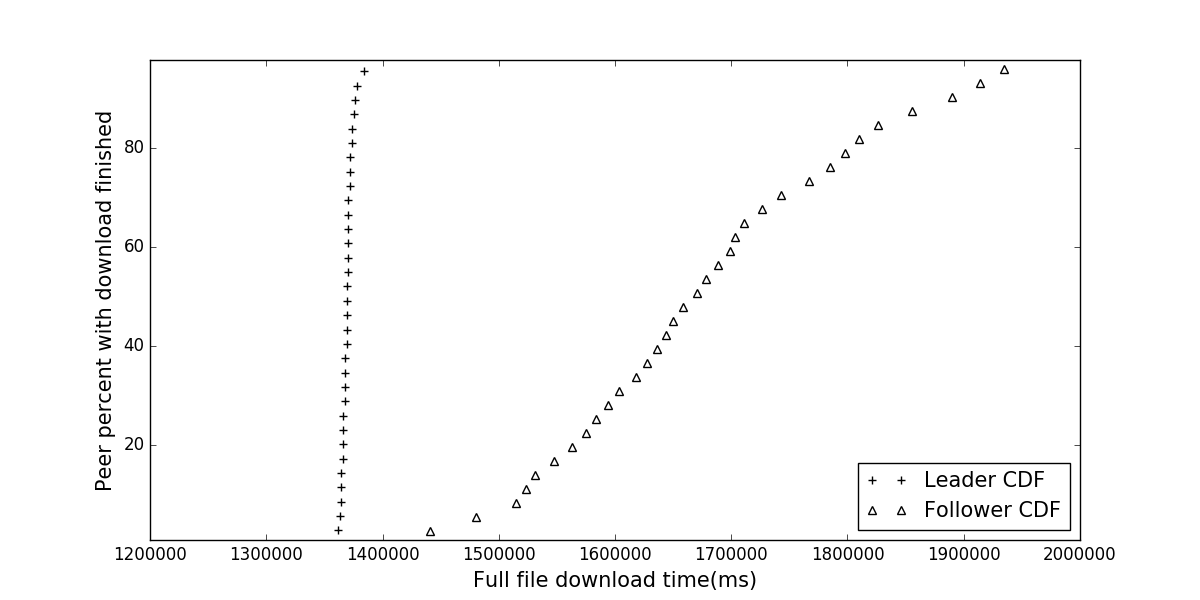
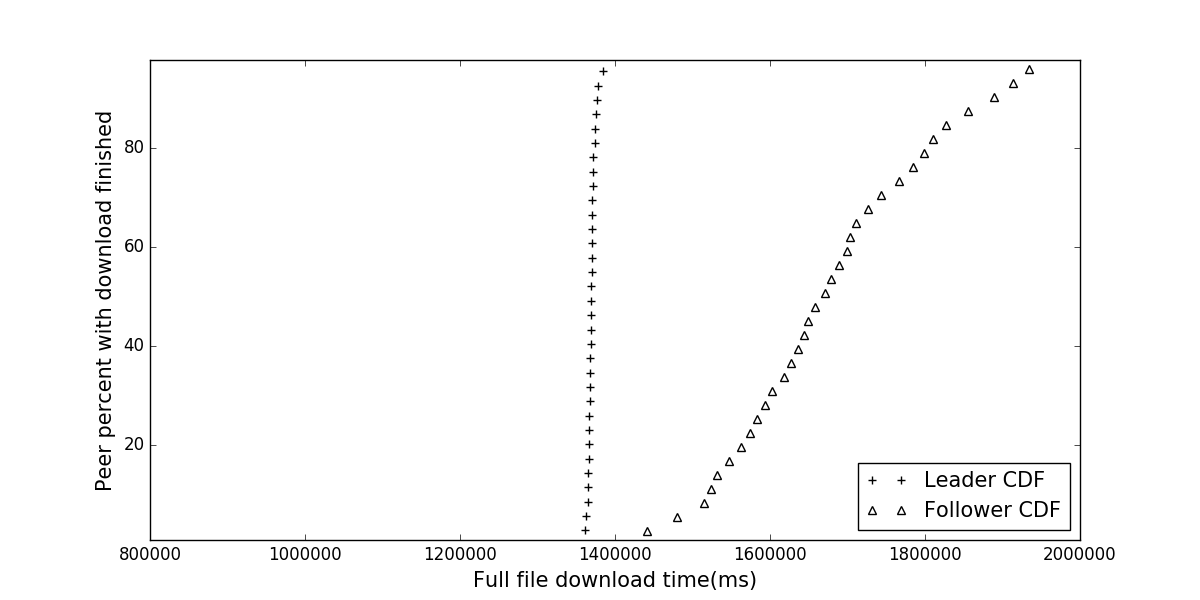
More tests for heterogenous environment.

diff --git a/misc/leaderFollower.py b/misc/leaderFollower.py
@@ -4,6 +4,8 @@ follower = [0,1393131,1393131,1417131,1420131,1420131,1429131,1433631,1435131,14
 leader2 = [0,1240667,1240667,1242167,1242167,1242167,1242167,1242167,1242167,1242167,1242667,1242667,1242667,1242667,1242667,1242667,1242667,1243667,1243667,1243667,1243667,1243667,1243667,1243667,1243667,1243667,1243667,1244167,1245167,1245167,1245167,1245167,1245167,1245167,1245167,1245167,1245167,1245167,1245167,1245167,1245167,1245167,1245167,1245167,1245167,1245167,1245167,1245167,1245167,1245167,1245167,1245167,1245167,1245167,1245167,1245167,1245167,1245167,1245167,1245167,1245167,1245167,1245167,1245167,1245167,1245167,1245167,1245167,1245167,1245167,1245167,1245167,1245167,1245167,1245167,1245167,1245167,1245167,1245167,1245167,1245167,1245167,1245167,1245167,1245167,1245167,1245167,1245167,1246667,1246667,1246667,1246667,1246667,1246667,1246667,1246667,1246667,1246667,1246667,1246667,1246667,1246667,1246667,1246667,1246667,1246667,1246667,1246667,1246667,1246667,1246667,1246667,1246667,1246667,1246667,1246667,1246667,1246667,1246667,1246667,1246667,1246667,1246667,1248167,1248167,1248167,1248167,1248167,1248167,1248167,1248167,1248167,1248167,1248167,1248167,1248167,1248167,1248167,1248167,1248167,1248167,1248167,1248167,1248167,1248167,1248167,1248167,1248167,1248167,1248167,1248167,1248167,1248167,1248167,1248167,1248167,1248167,1248167,1248167,1248167,1248167,1248167,1248167,1248167,1248167,1248167,1248167,1248167,1248167,1248167,1248167,1248167,1248167,1248167,1248167,1248167,1248167,1248167,1248167,1248167,1248167,1248167,1248167,1248167,1248167,1248167,1248167,1248167,1248167,1248167,1248167,1248167,1248167,1249667,1249667,1249667,1249667,1249667,1249667,1249667,1249667,1249667,1249667,1249667,1249667,1250167,1250167,1250167,1250167,1250167,1250167,1250167,1250167,1250167,1251167,1251167,1251167,1251167,1251167,1251167,1251167,1251167,1251167,1251167,1251167,1251167,1251167,1251667,1251667,1252667,1252667,1252667,1252667,1252798,1254167,1255667,1258667,1260167,1260167]
 follower2 = [0,1242167,1243667,1244167,1245167,1245167,1245167,1245167,1245167,1245167,1245167,1245167,1245167,1245167,1245167,1245167,1246667,1246667,1246667,1246667,1246667,1246667,1246667,1246667,1246667,1246667,1246667,1246667,1246667,1246667,1246667,1246667,1246667,1248167,1248167,1248167,1248167,1248167,1248167,1248167,1248167,1248167,1248167,1248167,1248167,1248167,1248167,1248167,1248167,1248167,1248167,1248167,1248167,1248167,1248167,1248167,1248167,1248167,1248167,1248167,1248167,1248167,1248167,1248167,1248167,1248167,1248167,1248167,1248167,1248167,1248167,1248167,1248167,1248167,1248167,1248167,1248167,1248167,1248167,1248167,1248167,1248167,1248167,1248167,1248167,1248167,1248167,1248167,1248167,1248167,1248167,1248167,1248167,1248167,1248167,1248167,1248167,1248167,1248167,1248167,1248167,1248167,1248167,1248167,1248167,1248167,1248167,1248167,1248167,1248167,1248167,1248167,1249667,1249667,1249667,1249667,1249667,1249667,1249667,1249667,1249667,1249667,1249667,1249667,1249667,1249667,1249667,1249667,1249667,1249667,1249667,1249667,1249667,1249667,1249667,1249667,1249667,1249667,1249667,1249667,1249667,1249667,1249667,1249667,1249667,1249667,1249667,1249667,1249667,1249667,1249667,1249667,1249667,1249667,1249667,1249667,1249667,1249667,1249667,1249667,1249667,1249667,1249667,1249667,1249667,1249667,1249667,1249667,1249667,1249667,1249667,1249667,1249667,1249667,1249667,1249667,1249878,1250167,1250167,1250167,1250167,1250167,1250167,1250167,1250167,1250167,1251167,1251167,1251167,1251167,1251167,1251167,1251167,1251167,1251167,1251167,1251167,1251167,1251167,1251167,1251167,1251167,1251167,1251167,1251167,1251167,1251167,1251167,1251167,1251167,1251167,1251167,1251167,1251167,1251167,1251167,1251167,1251167,1251167,1251167,1251167,1251167,1251167,1251167,1251167,1251167,1251167,1251167,1251167,1251167,1251167,1251167,1251167,1251167,1251167,1251167,1251167,1251167,1251167,1251167,1251167,1251167,1251167,1251167,1251167,1251167,1251167,1251167,1251167,1251167,1251167,1251167,1251167,1251167,1251167,1251167,1251167,1251167,1251167,1251167,1251167,1251167,1251167,1251167,1251167,1251167,1251167,1251167,1251167,1251167,1251167,1251167,1251167,1251167,1251167,1251167,1251167,1251167,1251167,1251167,1251167,1251167,1251167,1251167,1251167,1251167,1251167,1251167,1251167,1251167,1251167,1251167,1251167,1251167,1251167,1251167,1251167,1251167,1251167,1251167,1251167,1251167,1251167,1251167,1251167,1251167,1251167,1251167,1251167,1251167,1251167,1251167,1251167,1251167,1251167,1251167,1251167,1251167,1251167,1251167,1251167,1251167,1251167,1251167,1251167,1251167,1251167,1251167,1251167,1251167,1252667,1252667,1252667,1252667,1252667,1252667,1252667,1252667,1252667,1252667,1252667,1252667,1252667,1252667,1252667,1252667,1252667,1252667,1252667,1252667,1252667,1252667,1252667,1252667,1252667,1252667,1252667,1252667,1252667,1252667,1252667,1252667,1252667,1252667,1252667,1252667,1252667,1252667,1252667,1252667,1252667,1252667,1252667,1252667,1252667,1252667,1252667,1252667,1252667,1252667,1252667,1252667,1252667,1254167,1254167,1254167,1254167,1254167,1254167,1254167,1254167,1254167,1254167,1254167,1254167,1254167,1254167,1254167,1254167,1254167,1254167,1254167,1254167,1254167,1254167,1254167,1254167,1254167,1254167,1254167,1254167,1254167,1254167,1255667,1255667,1255667,1255667,1255667,1255667,1255667,1257167,1257167,1257167,1257167,1257167,1257167,1260167,1263167,1266167,1267667,1269167,1270667,1270667,1272167,1272167,1273667,1273667,1275167,1275167,1278167,1279667,1281167,1285667,1285667,1287167,1299167,1303667,1306667,1308167,1314167,1320167,1321691,1321699,1341167,1347167,1347167,1348682,1359167,1362167,1365167,1375667,1441679]
 
+leader3 =  [0,584232,608232,648732,651732,825732,825732,840732,848232,851232,851232,858732,861732,866232,866232,870732,872232,876732,879732,884232,884232,884232,887232,888732,888732,891732,891732,893232,893232,894732,896232,897732,897732,897732,900732,900732,900732,900732,902232,903732,903732,903732,905232,905232,905232,909732,911232,912732,912732,912732,912732,912732,914232,914232,914232,915732,915732,915732,915732,917232,917232,917232,917232,917232,918732,920232,920232,921732,921732,921732,923232,923232,923232,923232,924732,924732,924732,924732,926232,926232,926232,926232,927732,927732,927732,927732,927732,929232,929232,929232,929232,929232,930732,930732,930732,930732,932232,933732,935232,935232,935232,935232,936732,936732,936732,938232,938232,938232,938232,938232,939732,939732,939732,939732,939732,941232,941232,941232,942732,942732,942732,942732,942732,942732,942732,942732,944232,945732,945732,945732,945732,945732,945732,945732,947232,947232,947232,947232,947232,947232,947232,947232,948732,948732,948732,948732,948732,948732,950232,950232,950232,950232,950232,950232,950298,951732,951732,951732,951732,951732,951732,951732,951732,953232,953232,953232,953232,953232,953232,954732,954732,954732,954732,954732,954732,954732,956232,956232,956232,956232,956232,956232,957732,957732,957732,957732,959232,959232,959232,959232,959232,959232,959232,959232,959232,960732,960732,960732,960732,960732,960732,962232,962232,962232,962232,962232,962232,962232,962232,963732,963732,963732,963732,963732,963732,963732,963732,963732,963732,965232,965232,965232,965232,965232,965232,965232,965232,965232,966732,966732,966732,966732,966732,968232,968232,968232,968232,968232,968232,968232,969732,969732,969732,969732,971232,971232,971232,971232,971232,971232,971232,971232,971232,972732,972732,972732,972732,972732,974232,974232,974232,974232,975732,975732,975732,975732,975732,977232,977232,977232,977232,978732,978732,978732,978732,978732,980232,980232,980232,980232,980232,980232,980232,980232,980232,980232,980232,980232,981732,981732,981732,981732,981732,981732,983232,983232,983232,983232,984732,984732,984732,986232,986232,986232,986232,986232,986232,986232,986232,987732,987732,987732,989232,989232,989232,990732,990732,992232,992232,993732,993732,993732,993732,995232,995232,995232,995232,995232,996732,996732,999732,999732,1001232,1002732,1004232,1004232,1005732,1005732,1007232,1007232,1008732,1010232,1011732,1014732,1014732,1016232,1019232]
+follower3 =  [0,1110732,1119732,1119732,1122732,1136232,1139232,1139232,1142232,1143732,1145232,1145232,1146732,1152732,1152732,1154232,1154232,1157232,1157232,1158732,1158732,1163232,1172232,1173732,1175232,1176732,1181232,1181232,1181232,1184232,1184232,1187232,1190232,1191732,1193232,1194732,1194732,1196232,1196232,1200732,1200732,1200732,1203732,1203732,1206732,1206732,1206732,1206732,1208232,1209732,1209732,1211232,1211232,1211232,1211232,1212732,1212732,1214232,1214232,1214232,1214232,1214232,1214232,1215732,1215732,1215732,1215732,1217232,1217232,1217232,1217232,1217232,1218732,1218732,1218732,1218732,1220232,1220232,1221732,1221732,1224732,1224732,1224732,1224732,1226232,1227732,1227732,1227732,1227732,1229232,1229232,1229232,1229232,1230732,1232232,1233732,1233732,1233732,1233732,1238232,1238232,1238232,1239732,1241232,1241232,1242732,1242732,1242732,1242732,1242732,1244232,1245732,1245732,1247232,1247232,1248732,1248732,1250232,1250232,1250232,1250232,1250232,1250232,1251732,1251732,1251732,1251732,1253232,1254732,1254732,1254732,1257732,1257732,1257732,1259232,1259232,1259232,1259232,1259232,1260732,1260732,1262232,1262232,1262232,1263732,1263732,1265232,1265232,1268232,1268232,1268232,1268232,1268232,1269732,1269732,1269732,1271232,1272732,1274232,1274232,1274232,1275732,1275732,1275732,1277232,1277232,1278732,1278732,1278732,1278732,1278732,1278732,1281732,1281732,1284732,1286232,1286232,1287732,1287732,1289232,1290732,1290732,1290732,1292232,1292232,1296732,1296732,1296732,1298232,1299732,1299732,1299732,1299732,1299732,1299732,1299732,1301232,1301232,1302732,1302732,1304232,1305732,1305732,1305732,1305732,1307232,1307232,1308732,1311732,1311732,1313232,1314732,1316232,1316232,1317732,1317732,1317732,1319232,1319232,1319232,1320732,1320732,1320732,1320732,1322232,1322232,1322232,1323732,1326732,1326732,1326732,1326732,1328232,1329732,1329732,1331232,1331232,1332732,1332732,1332732,1334232,1334232,1335732,1335732,1337232,1338732,1338732,1338732,1340232,1340232,1340232,1341732,1343232,1343232,1343232,1343232,1344732,1344732,1346232,1346232,1347732,1349232,1349232,1350732,1353732,1355232,1356732,1359732,1359732,1361232,1361232,1362732,1364232,1364232,1364232,1364232,1365732,1365732,1367232,1367232,1368732,1368732,1371732,1374732,1376232,1376232,1376232,1377732,1377732,1379232,1379232,1380732,1380732,1382232,1382232,1383732,1388232,1391232,1392732,1392732,1395732,1395732,1398732,1400232,1400232,1401732,1401732,1401732,1403232,1404732,1404732,1404732,1406232,1406232,1407732,1409232,1409232,1410732,1412232,1413732,1415232,1415232,1415232,1421232,1421232,1424232,1424232,1425732,1427232,1427232,1427232,1431732,1437732,1439232,1439275,1442232,1452732,1461732,1466232,1466232,1470732,1472232,1473732,1475232,1475232,1490263,1511232,1514232,1517232,1520232,1526232,1553232,1562232,1625232]
 
 def sparse(y):
     return list(y[:-10:10])
@@ -18,8 +20,14 @@ plots = [
     .plot(sparse(leader)[1:], sparse(hmm(leader))[1:], '+', fillstyle='none', color='black', label="Leader CDF")
     .plot(sparse(follower)[1:], sparse(hmm(follower))[1:], '^', fillstyle='none', color='black', label="Follower CDF")
     .save("plots/leaderFollower.png"),
+  # Asym
   LeaderPlot()
     .plot(sparse(leader2)[1:], sparse(hmm(leader2))[1:], '+', fillstyle='none', color='black', label="Leader CDF")
     .plot(sparse(follower2)[1:], sparse(hmm(follower2))[1:], '^', fillstyle='none', color='black', label="Follower CDF")
     .save("plots/leaderFollower2.png"),
+  # Bigseed
+  LeaderPlot()
+    .plot(sparse(leader3)[1:], sparse(hmm(leader3))[1:], '+', fillstyle='none', color='black', label="Leader CDF")
+    .plot(sparse(follower3)[1:], sparse(hmm(follower3))[1:], '^', fillstyle='none', color='black', label="Follower CDF")
+    .save("plots/leaderFollower3.png"),
 ]

diff --git a/misc/plots.py b/misc/plots.py
@@ -33,6 +33,22 @@ abia50 = [1268404.4, 1267638.0, 1280000.0, 1284261.5]
 red_abia = [14.371836096967177, 16.073892809320004, 17.98625134264232, 20.011821596975324]
 red_acac = [9.568944996001083, 13.641038166719099, 18.308232016698877, 24.228285714285715]
 
+# Asym. big seed
+sacac90 = [820490.6, 717618.0, 662806.5, 653595.0]
+sacac50 = [609990.6, 554118.0, 536056.5, 512595.0]
+sacacavg = [600125.8, 525791.9, 487413.7, 475073.5]
+red_sacac = [7.296506708965068, 11.170763380130067, 15.82682142857143, 21.0987]
+
+sabia90 = [626446.6, 632804.5, 643868.3, 634731.0]
+sabia50 = [495946.6, 485804.5, 527868.3, 509106.0]
+sabiaavg = [483029.2, 490061.9, 506963.9, 496343.3]
+red_sabia = [11.688949840165073, 15.105469430672786, 17.38205260239677,  19.994200748891423]
+
+sabit90  = [633349.0] * 4
+sabit50  = [514099.0] * 4
+sabitavg = [493678.3642857143] * 4
+red_sabit = [47.1781428571428] * 4
+
 idx = [10, 20, 30, 40, 50]
 
 pic90 = [2674485.6, 2156115.6, 1803175.2, 1754077.2, 1779010.0]
@@ -93,6 +109,20 @@ plots = [
 		.save("plots/cacred.png"),
 
 	# Hetero
+	TimePlot(type="Both")
+		.plot(idx[1:], sabiaavg, color='black', linestyle=':', label="Biased selection average")
+		.plot(idx[1:], sacacavg, color='black', linestyle='-', label="CacheTorrent average")
+		.plot(idx[1:], sabitavg, color='black', linestyle='--', label="BitTorrent average")
+		.save("plots/asymAvg.png"),
+	RedPlot(type="Both")
+		.plot(idx[1:], red_sabia, color='black', linestyle=':', label="Biased selection")
+		.plot(idx[1:], red_sacac, color='black', linestyle='-', label="CacheTorrent")
+		.save("plots/asymRed.png"),
+	TimePlot(type="Cache")
+		.plot(idx[1:], sacac90, color='black', linestyle='--', label="CacheTorrent 90th percentile")
+		.plot(idx[1:], sacac50, color='black', linestyle='-', label="CacheTorrent 50th percentile")
+		.save("plots/asymPer.png"),
+
 	TimePlot(type="Both")
 		.plot(idx[1:], abia50, color='black', linestyle='-', label="Biased selection 50th percentile")
 		.plot([20, 30, 35, 40, 50], acac90, color='black', linestyle='-.', label="CacheTorrent 90th percentile")

diff --git a/misc/plot.py b/misc/plot.py
@@ -60,7 +60,7 @@ class LeaderPlot(Plot):
         super().__init__()
         self.xlabel("Full file download time(ms)")
         self.ylabel("Peer percent with download finished")
-        self.plt.xlim((1200000,2000000))
+        self.plt.xlim((800000,2000000))
         self.loc = 4
 
 types = {
